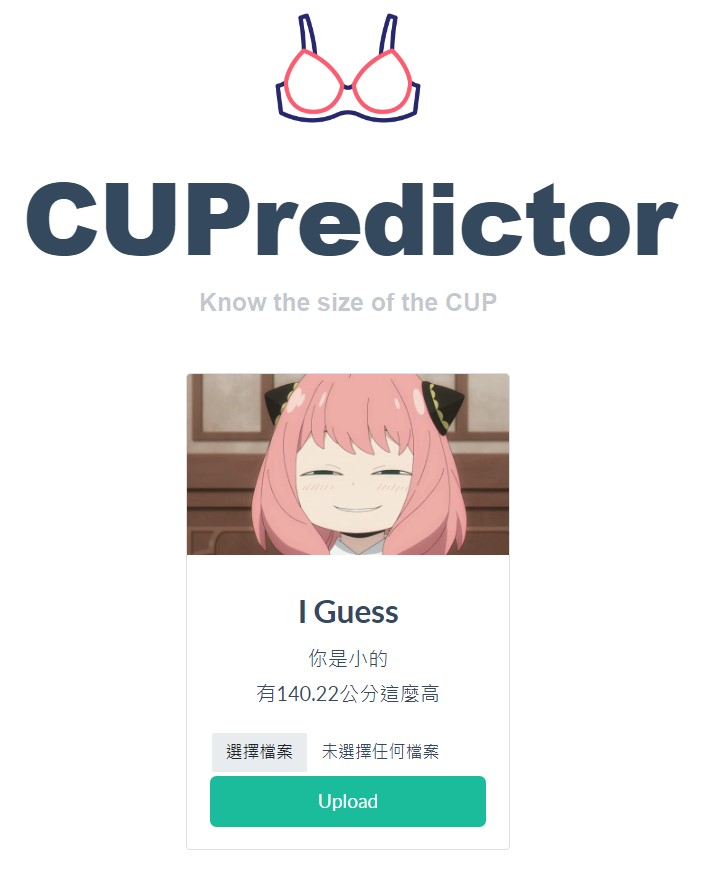
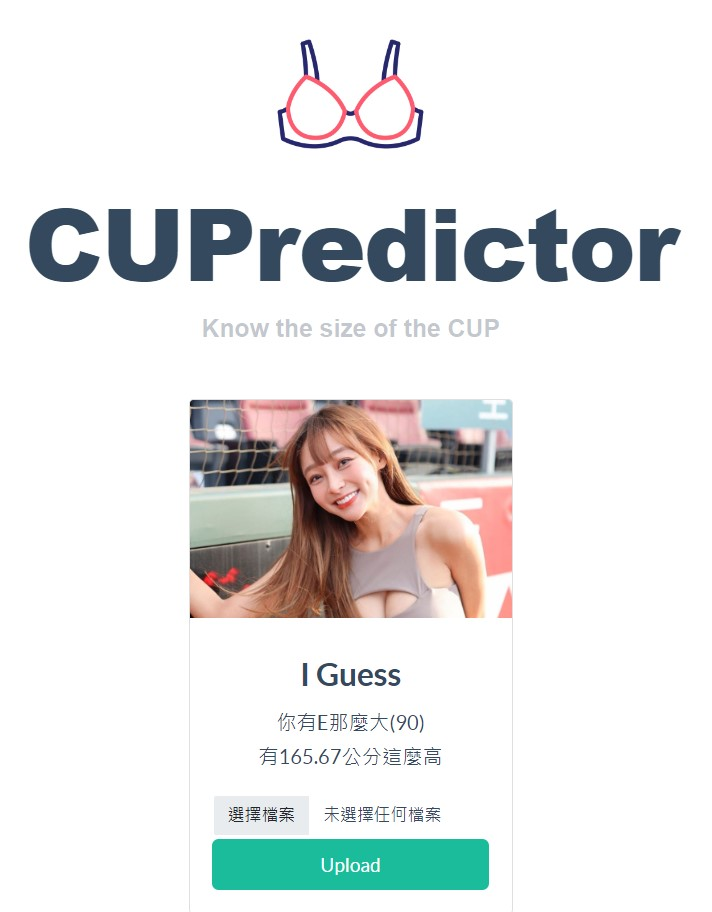
modify User Interface site

diff --git a/templates/classifier.html b/templates/classifier.html
@@ -36,7 +36,7 @@
                     <img src="{{ user_image }}" class="card-img-top" alt="input image">
                     <div class="card-body">
                       <h5 class="card-title">I Guess</h5>
-                      <p class="card-text">你是{{result}}的<br>有{{height}}公分這麼高</p>
+                      <p class="card-text">你有{{bust_str}}那麼大({{bust}})<br>有{{height}}公分這麼高</p>
                       <form method=post enctype=multipart/form-data>
                         <input type="file" name="file" placeholder="select your file" class="form-control flat" />
                         <input type="submit" value="Upload" class="btn btn-block btn-lg btn-primary" />

diff --git a/main.py b/main.py
@@ -18,6 +18,8 @@ def allowed_file(filename):
 def upload_file():
     preds = ''
     heights = 0.0
+    bust_dict = {'A':list(range(70,83)), 'B':list(range(83,85)), 'C':list(range(85,88)),
+    'D':list(range(88,90)), 'E':list(range(90,93)), 'F':list(range(93,95)), 'G':list(range(95,98))}
     if request.method == 'POST':
         # check if the post request has the file part
         if 'file' not in request.files:
@@ -32,12 +34,18 @@ def upload_file():
         if file and allowed_file(file.filename):
             filename = secure_filename(file.filename)
             file.save(os.path.join(app.config['UPLOAD_FOLDER'], filename))
-            outputs, preds, heights = inference(os.path.join(app.config['UPLOAD_FOLDER'], filename))
-            print(outputs)
+            outputs, preds, heights, bust = inference(os.path.join(app.config['UPLOAD_FOLDER'], filename))
+            for k, v in bust_dict.items():
+                print(v,round(float(bust)))
+                if round(float(bust)) in v: 
+                    bust = round(float(bust))
+                    bust_str = k
+                    break
+            print(outputs, bust)
             img = os.path.join(app.config['UPLOAD_FOLDER'], filename)#app.config['UPLOAD_FOLDER']
 
-            return render_template('classifier.html', result = '大' if preds=='big' else '小', height = heights, user_image = img)
-    return render_template('classifier.html', result = preds, height = heights, user_image = 'static/imgs/cup.png')
+            return render_template('classifier.html', result = '大' if preds=='big' else '小', height = heights, user_image = img, bust_str = bust_str, bust = bust)
+    return render_template('classifier.html', result = preds, height = heights, user_image = 'static/imgs/cup.png', bust_str = 'A', bust = 0)
 
 
 if __name__ == "__main__":

diff --git a/predictor.py b/predictor.py
@@ -189,7 +189,7 @@ def evaluation(model, epoch, device, dataloaders):
             _, preds = torch.max(outputs, 1)
             print(preds)
 
-def inference(img_path, classes = ['big', 'small'], epoch = 25):
+def inference(img_path, classes = ['big', 'small'], epoch = 6):
     model = model = CUPredictor()
     model.load_state_dict(torch.load(f'models/model_{epoch}.pt'))
     model.eval()
